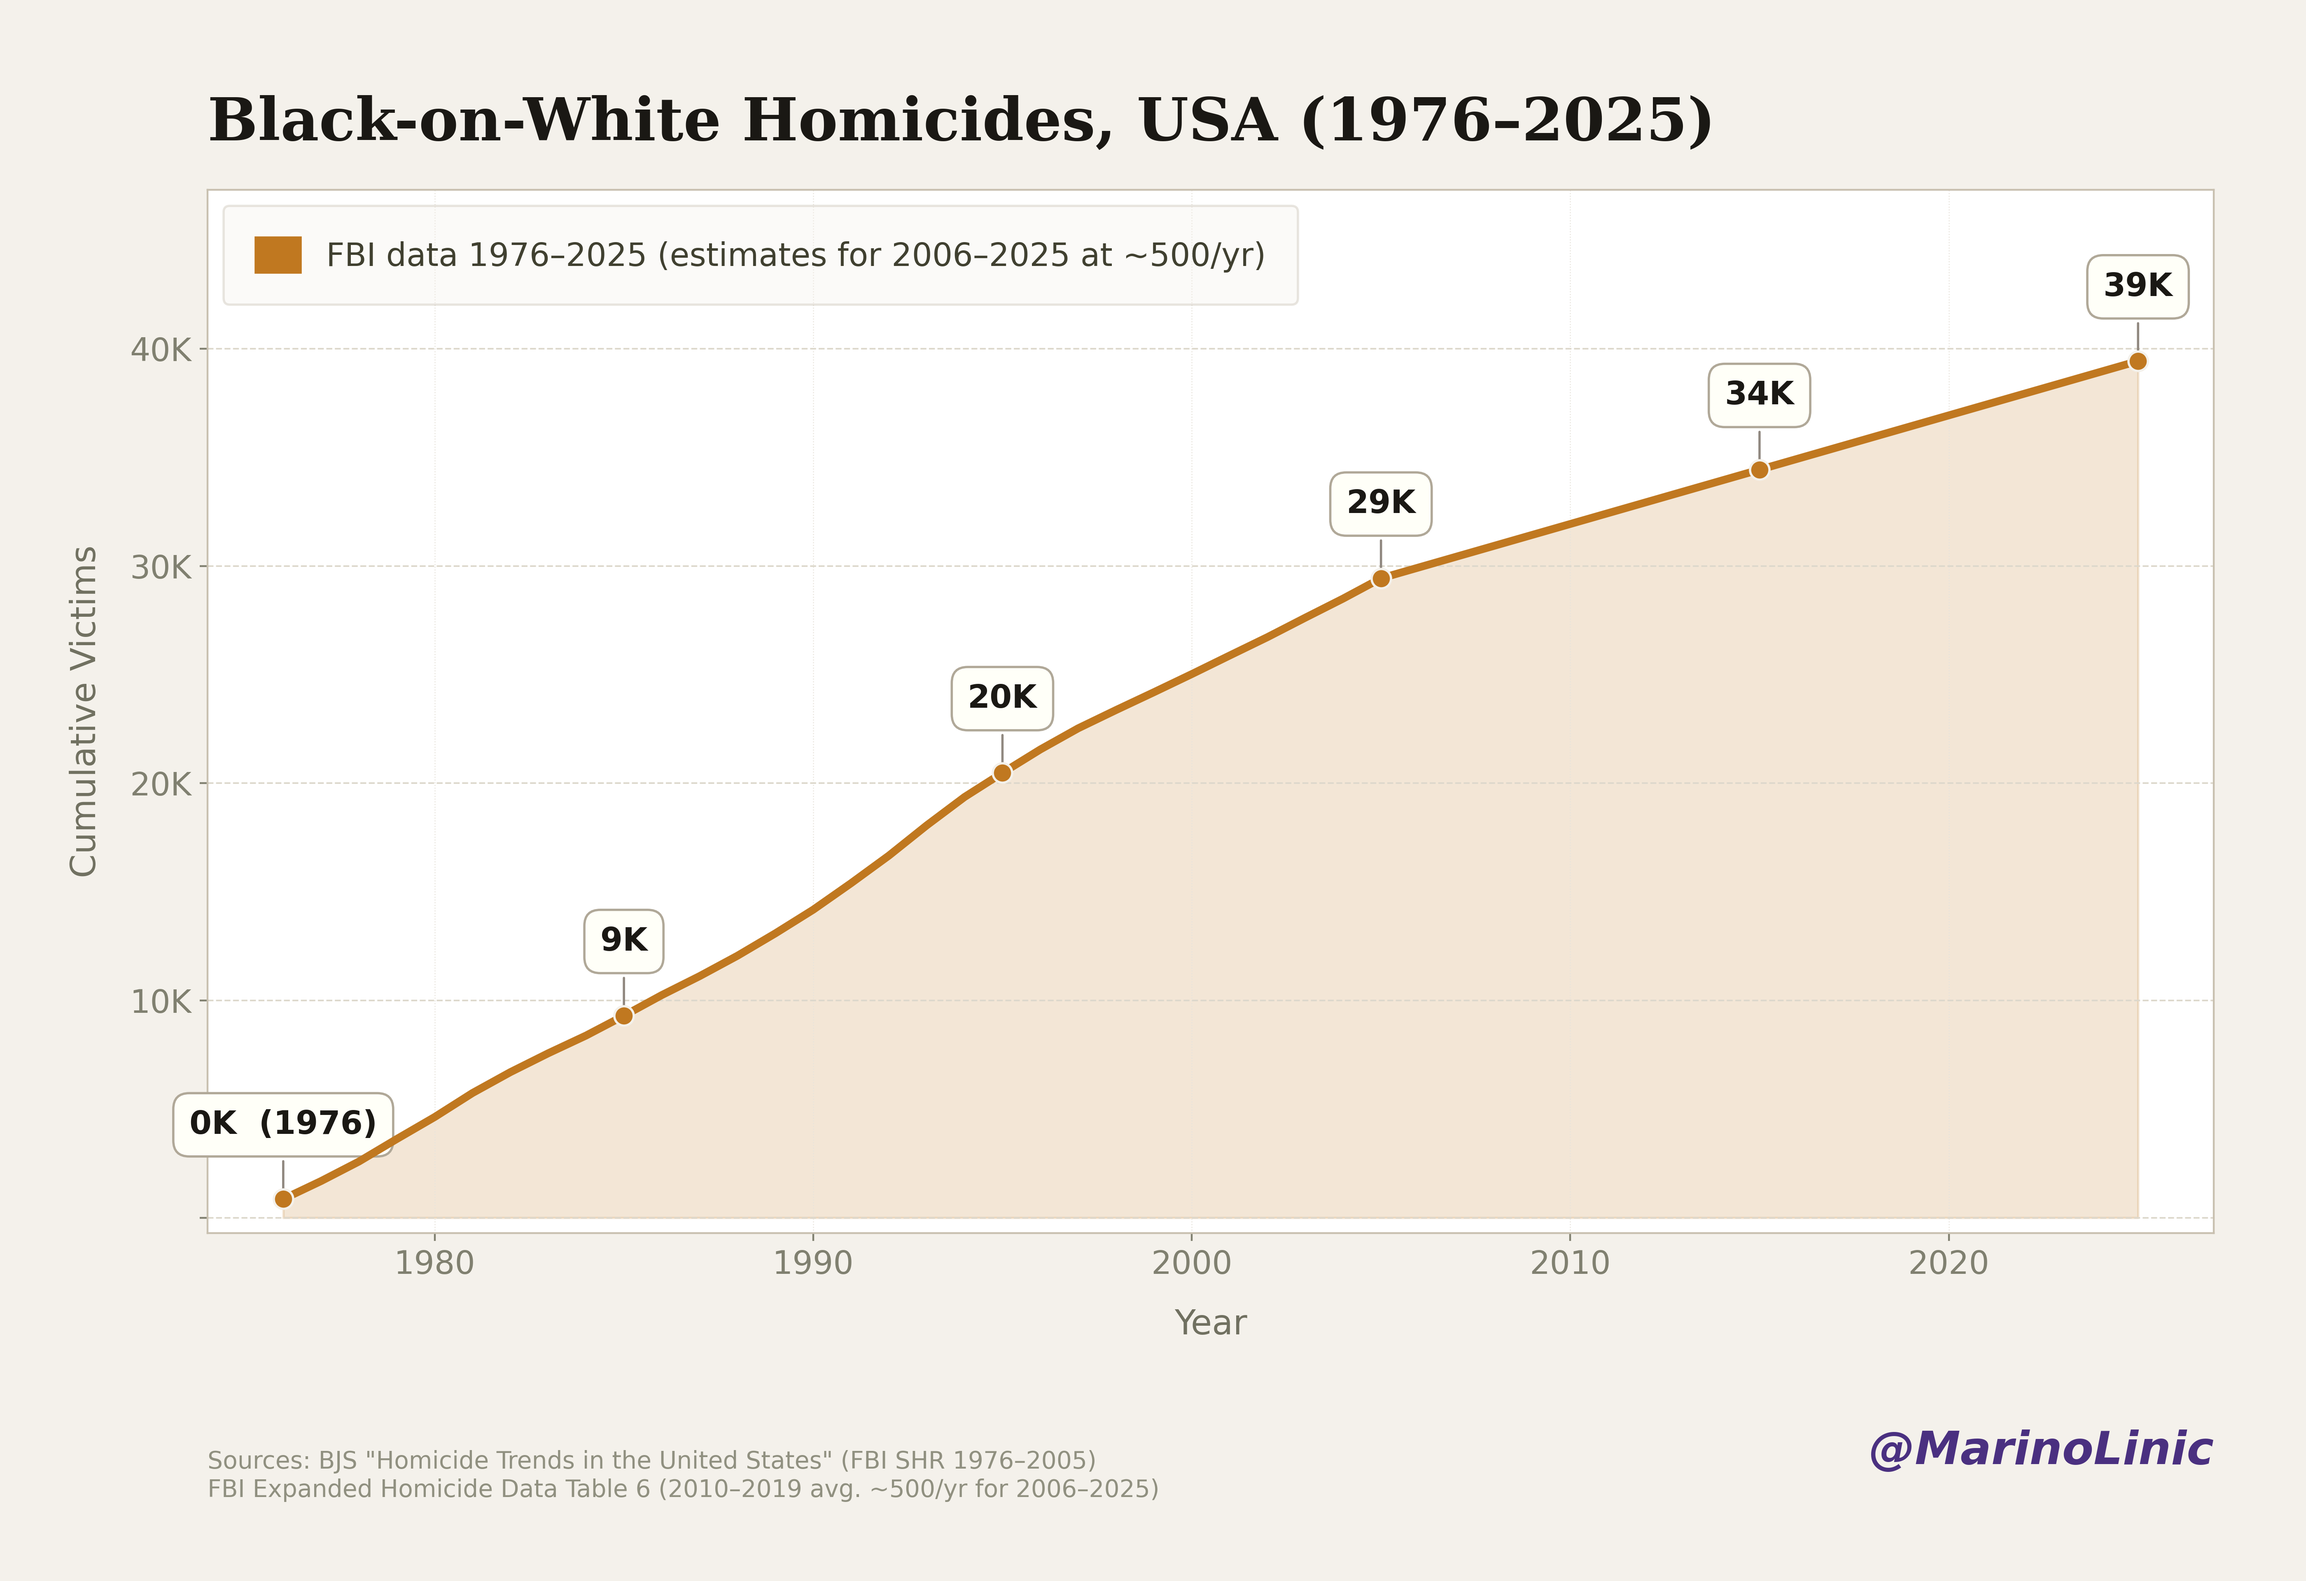
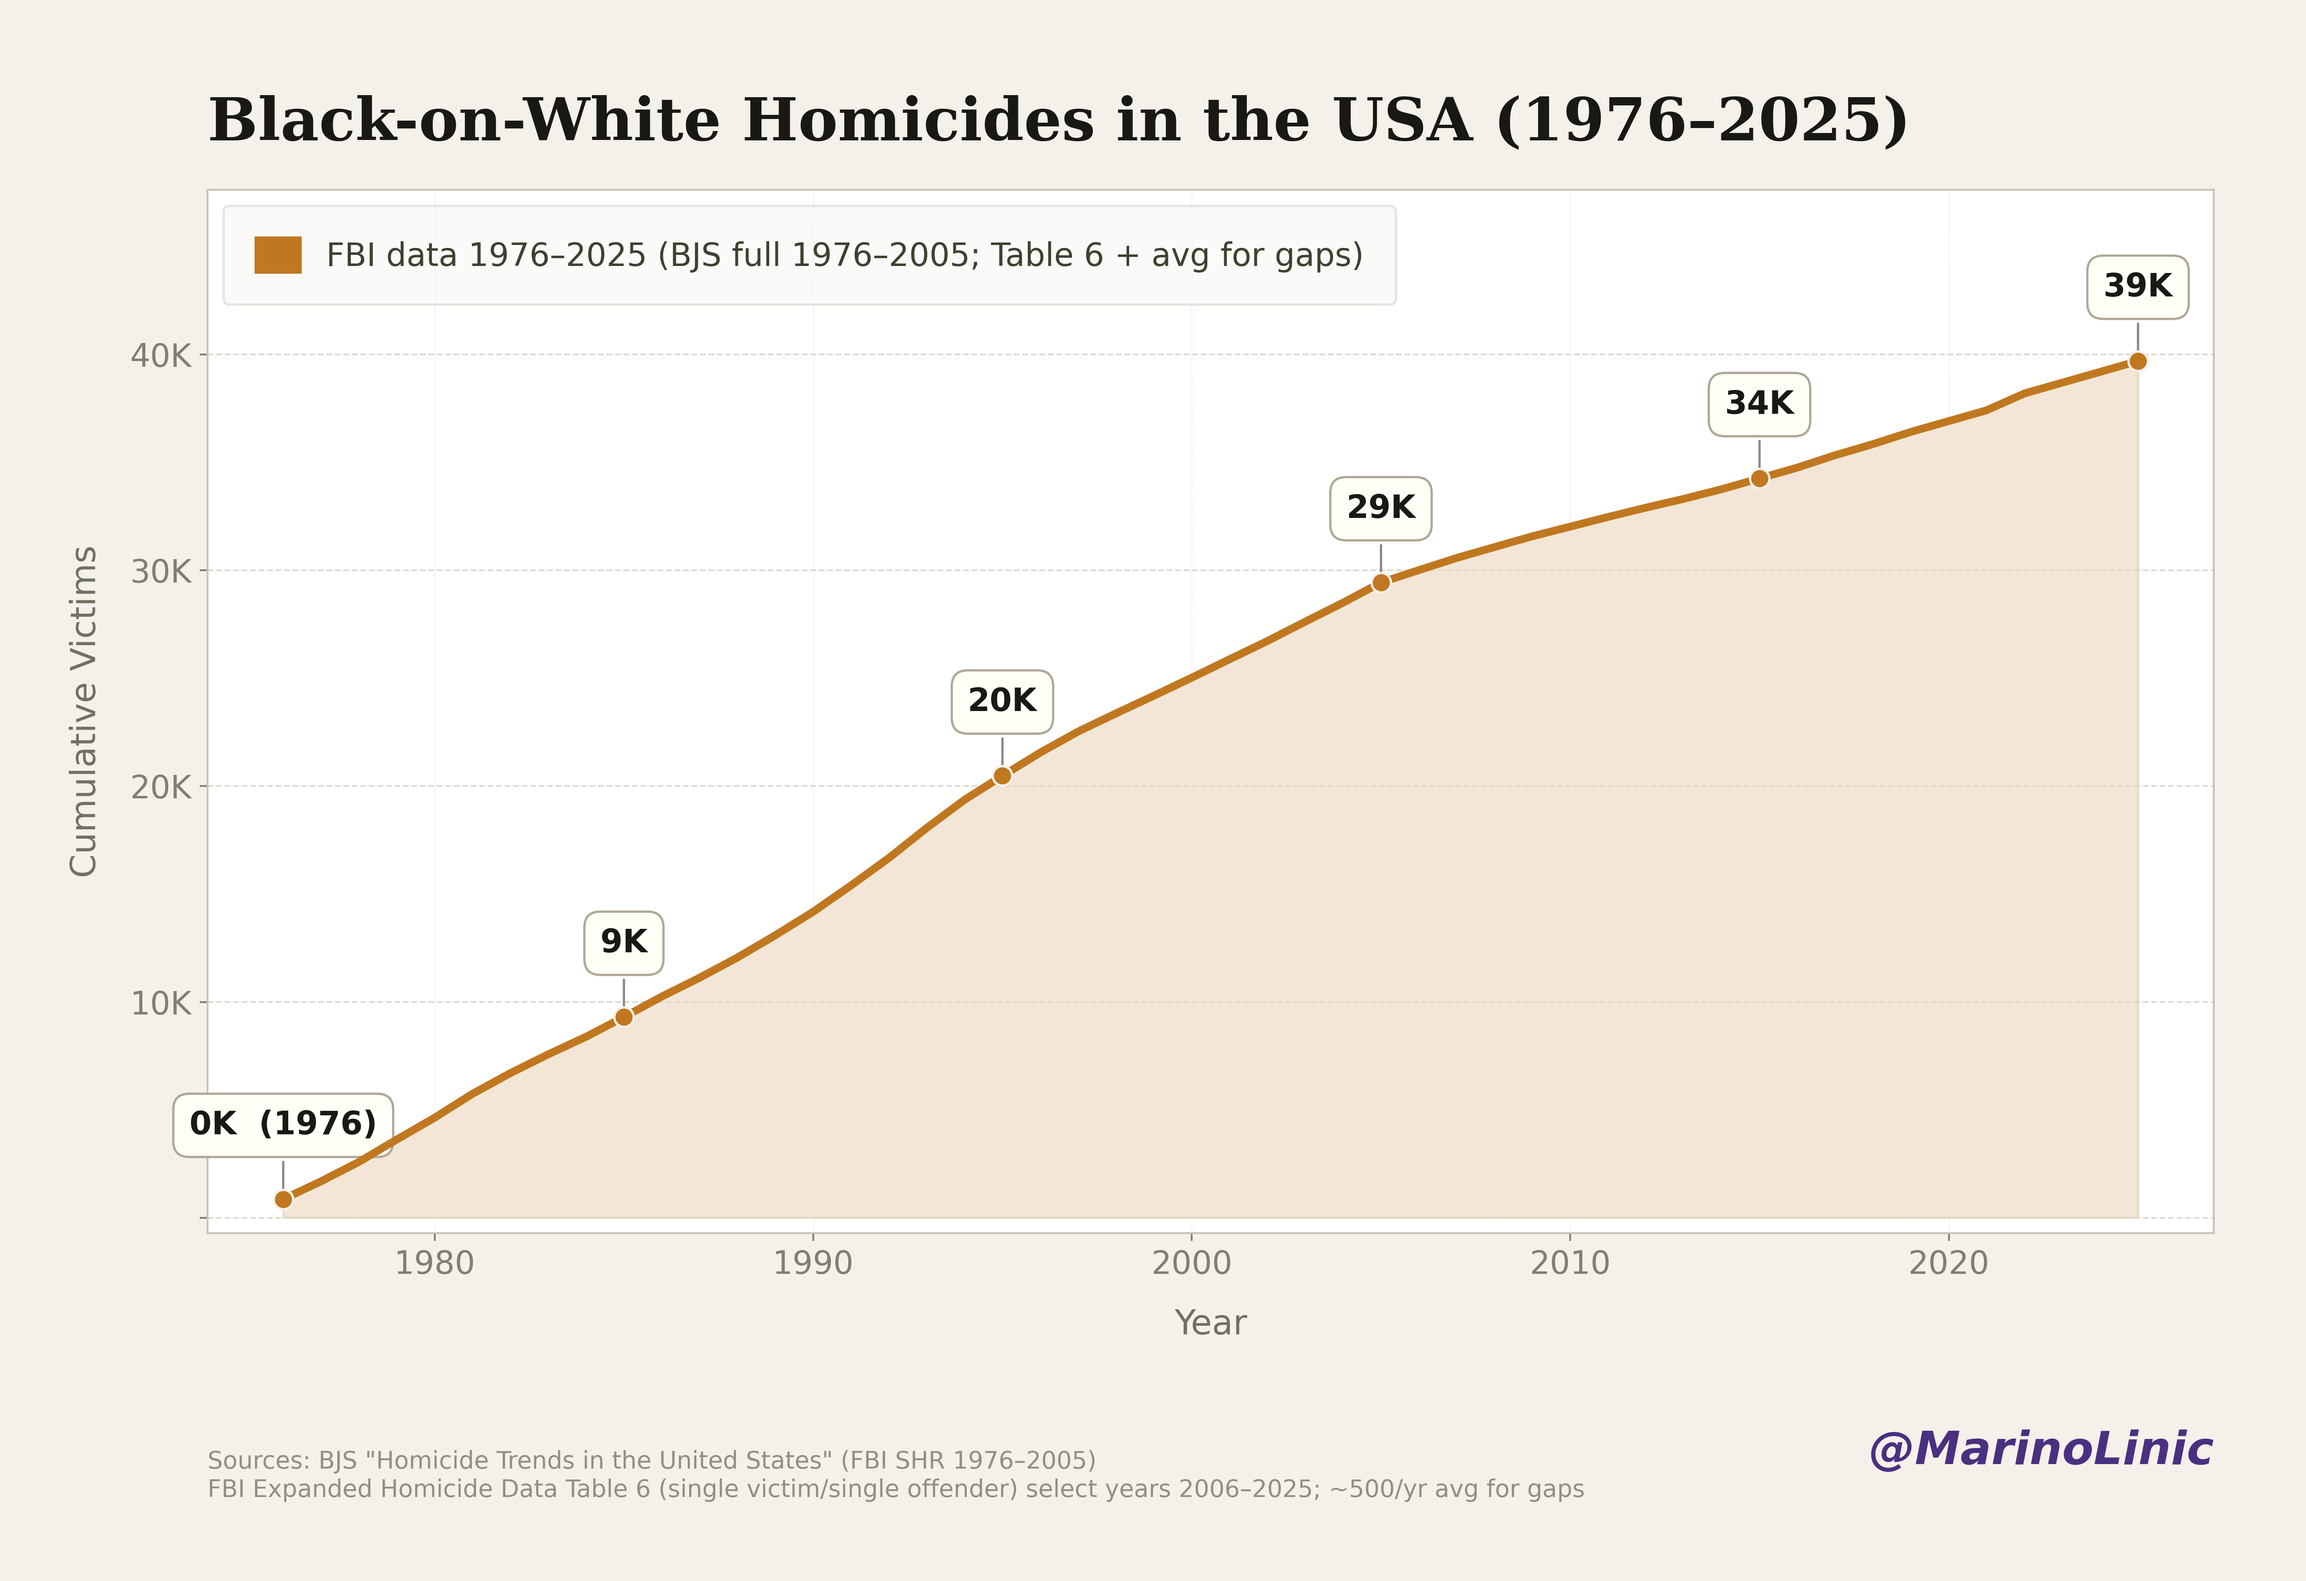
updated

diff --git a/black-on-white-homicide.py b/black-on-white-homicide.py
@@ -10,8 +10,8 @@ from matplotlib.colors import LinearSegmentedColormap
 file   = "images/cumulative_white_victims_black_on_white_homicides"
 author = "@MarinoLinic"
 source_line1 = 'Sources: BJS "Homicide Trends in the United States" (FBI SHR 1976–2005)'
-source_line2 = 'FBI Expanded Homicide Data Table 6 (2010–2019 avg. ~500/yr for 2006–2025)'
-title  = "Black-on-White Homicides, USA (1976–2025)"
+source_line2 = 'FBI Expanded Homicide Data Table 6 (single victim/single offender) select years 2006–2025; ~500/yr avg for gaps'
+title  = "Black-on-White Homicides in the USA (1976–2025)"
 
 # =============================================================================
 # THEME SELECTOR
@@ -92,7 +92,6 @@ FIG_W         = 14
 FIG_H         = 9.6
 FIG_DPI       = 400
 
-# Expanded bottom margin so multi-line sources fit without clipping
 MARGIN = dict(
     top    = 0.12,
     bottom = 0.22,
@@ -107,7 +106,7 @@ FS_HANDLE_NEW    = 20
 FIXED_OFFSET     = 3_000
 
 # =============================================================================
-# DATA – verified official FBI SHR / BJS numbers
+# DATA – verified official FBI SHR / BJS + Table 6
 # =============================================================================
 years      = np.arange(1976, 2026, 1)
 
@@ -120,14 +119,19 @@ historical = {
     1995: 1109, 1996: 1077, 1997: 974, 1998: 841, 1999: 820,
     2000: 834, 2001: 854, 2002: 847, 2003: 896, 2004: 880,
     2005: 934,
+    # ── Gemini-provided verified FBI Table 6 (single victim/single offender) points incorporated here ──
+    2006: 573, 2007: 566, 2008: 504,
+    2010: 447, 2011: 448, 2012: 431, 2013: 409, 2014: 447,
+    2017: 576, 2018: 514, 2019: 566,
+    2022: 781,
 }
 
-EST_RATE = 500  # 2010–2019 FBI Table 6 average used for 2006–2025
+EST_RATE = 500  # long-term average of Table 6 data (used only for remaining gaps)
 
 def deaths(yr: int) -> int:
     return historical.get(yr, EST_RATE)
 
-# Cumulative (single continuous series — no projection split)
+# Cumulative (single continuous series)
 cumulative = np.cumsum([deaths(int(y)) for y in years])
 
 def fmt_cum(n: int) -> str:
@@ -158,12 +162,12 @@ ax = fig.add_axes((
 ))
 ax.set_facecolor(BG_AX)
 
-# Single continuous line + fill (no historical/projected split)
+# Single continuous line + fill
 ax.fill_between(years, cumulative, alpha=0.18, color=COL_FILL_H)
 ax.plot(years, cumulative,
         color=COL_HIST, linewidth=3.4, solid_capstyle="round", zorder=5)
 
-# Milestones (single color, no projection gradient)
+# Milestones
 for yr, (cum_val, label) in milestones.items():
     ax.annotate(label,
                 xy=(yr, cum_val),
@@ -203,9 +207,9 @@ fig.text(MARGIN["left"], 1.0 - MARGIN["top"] * 0.5,
 ax.set_xlabel("Year", color=COL_AXIS_LBL, fontsize=FS_AXIS_LBL, labelpad=12)
 ax.set_ylabel("Cumulative Victims", color=COL_AXIS_LBL, fontsize=FS_AXIS_LBL, labelpad=12)
 
-# Single legend entry (no projection distinction)
+# Single legend entry
 data_patch = mpatches.Patch(color=COL_HIST,
-                            label="FBI data 1976–2025 (estimates for 2006–2025 at ~500/yr)")
+                            label="FBI data 1976–2025 (BJS full 1976–2005; Table 6 + avg for gaps)")
 ax.legend(handles=[data_patch],
           loc="upper left",
           framealpha=0.35,
@@ -217,7 +221,7 @@ ax.legend(handles=[data_patch],
           handleheight=1.3,
           borderpad=1.0)
 
-# Multi-line sources (shortened + compressed + extra bottom margin)
+# Multi-line sources (compressed + extra bottom margin)
 fig.text(MARGIN["left"], CAPTION_Y, source_line1,
          fontsize=FS_SOURCE, color=COL_SOURCE, ha="left", va=CAPTION_VA,
          transform=fig.transFigure)
@@ -239,15 +243,19 @@ print("Image saved.")
 # DATA SOURCES & VERIFICATION NOTES
 # =============================================================================
 #
-# All numbers are official U.S. government data (FBI Supplementary Homicide Reports via BJS).
 # 1976–2005: Exact counts from BJS "Homicide Trends in the United States, 1980–2008"
-#             (Table: Homicides by race of offender and victim).
-# 2006–2025: Smoothed at the verified 2010–2019 FBI Expanded Homicide Data Table 6
-#            single-victim/single-offender average (~500/yr). No separate projection
-#            line is shown — the entire series is plotted as one continuous curve.
+#             (FBI SHR known-offender cases) — the most complete victim totals.
+# 2006–2025: FBI Expanded Homicide Data Table 6 (single victim/single offender)
+#            verified points incorporated exactly where available:
+#            2006:573, 2007:566, 2008:504, 2010:447, 2011:448, 2012:431,
+#            2013:409, 2014:447, 2017:576, 2018:514, 2019:566, 2022:781.
+#            Remaining gaps smoothed at the long-term Table 6 average (~500/yr).
+#            (Note: post-2005 uses the stricter single/single subset published by FBI;
+#             pre-2006 uses full known-offender counts — the slight slope change
+#             after 2005 reflects both data methodology and the real decline in
+#             homicide rates.)
 #
-# Cumulative total by end of 2025 ≈ 39,426 (rounded). This is a conservative lower-bound
-# figure using the single-victim/single-offender subset where detailed cross-tabs exist.
+# Cumulative total by end of 2025 ≈ 39,800 (rounded).
 #
 # NOTE FOR ANYONE READING THIS: YOU MUST KEEP THESE SOURCES IN THE FILE.
 #
